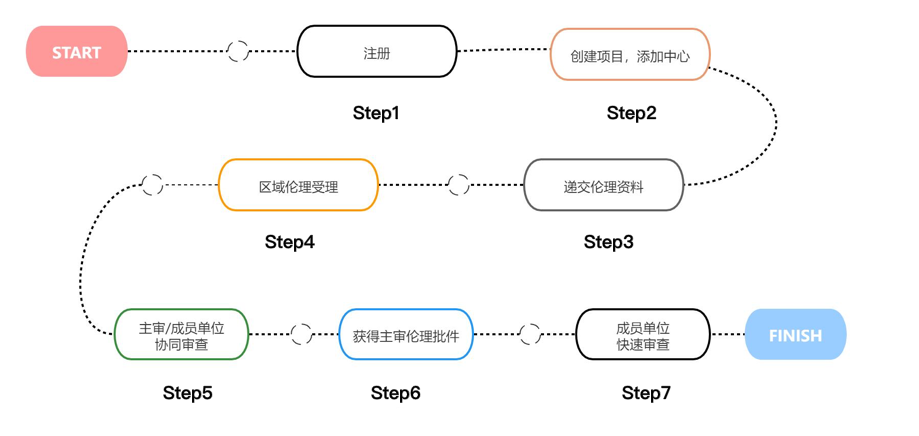
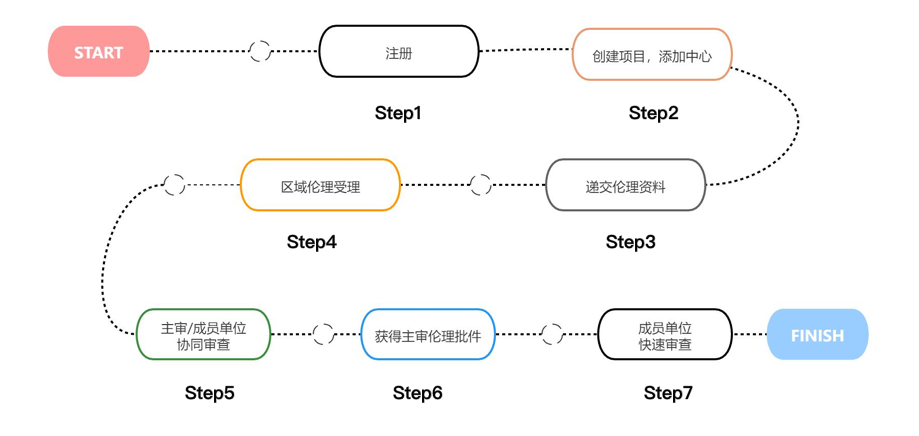
fix(区域伦理): 图片居中

diff --git a/ethic.html b/ethic.html
@@ -99,7 +99,7 @@
     <div class="page-ec">
         <section class="container py-5">
             <h2>区域伦理办事流程</h2>
-            <div class="ec-process-img">
+            <div class="ec-process-img text-center">
                 <img src="./themes/basic/assets/ethic-process-bg.png" alt="流程图" />
             </div>
     
